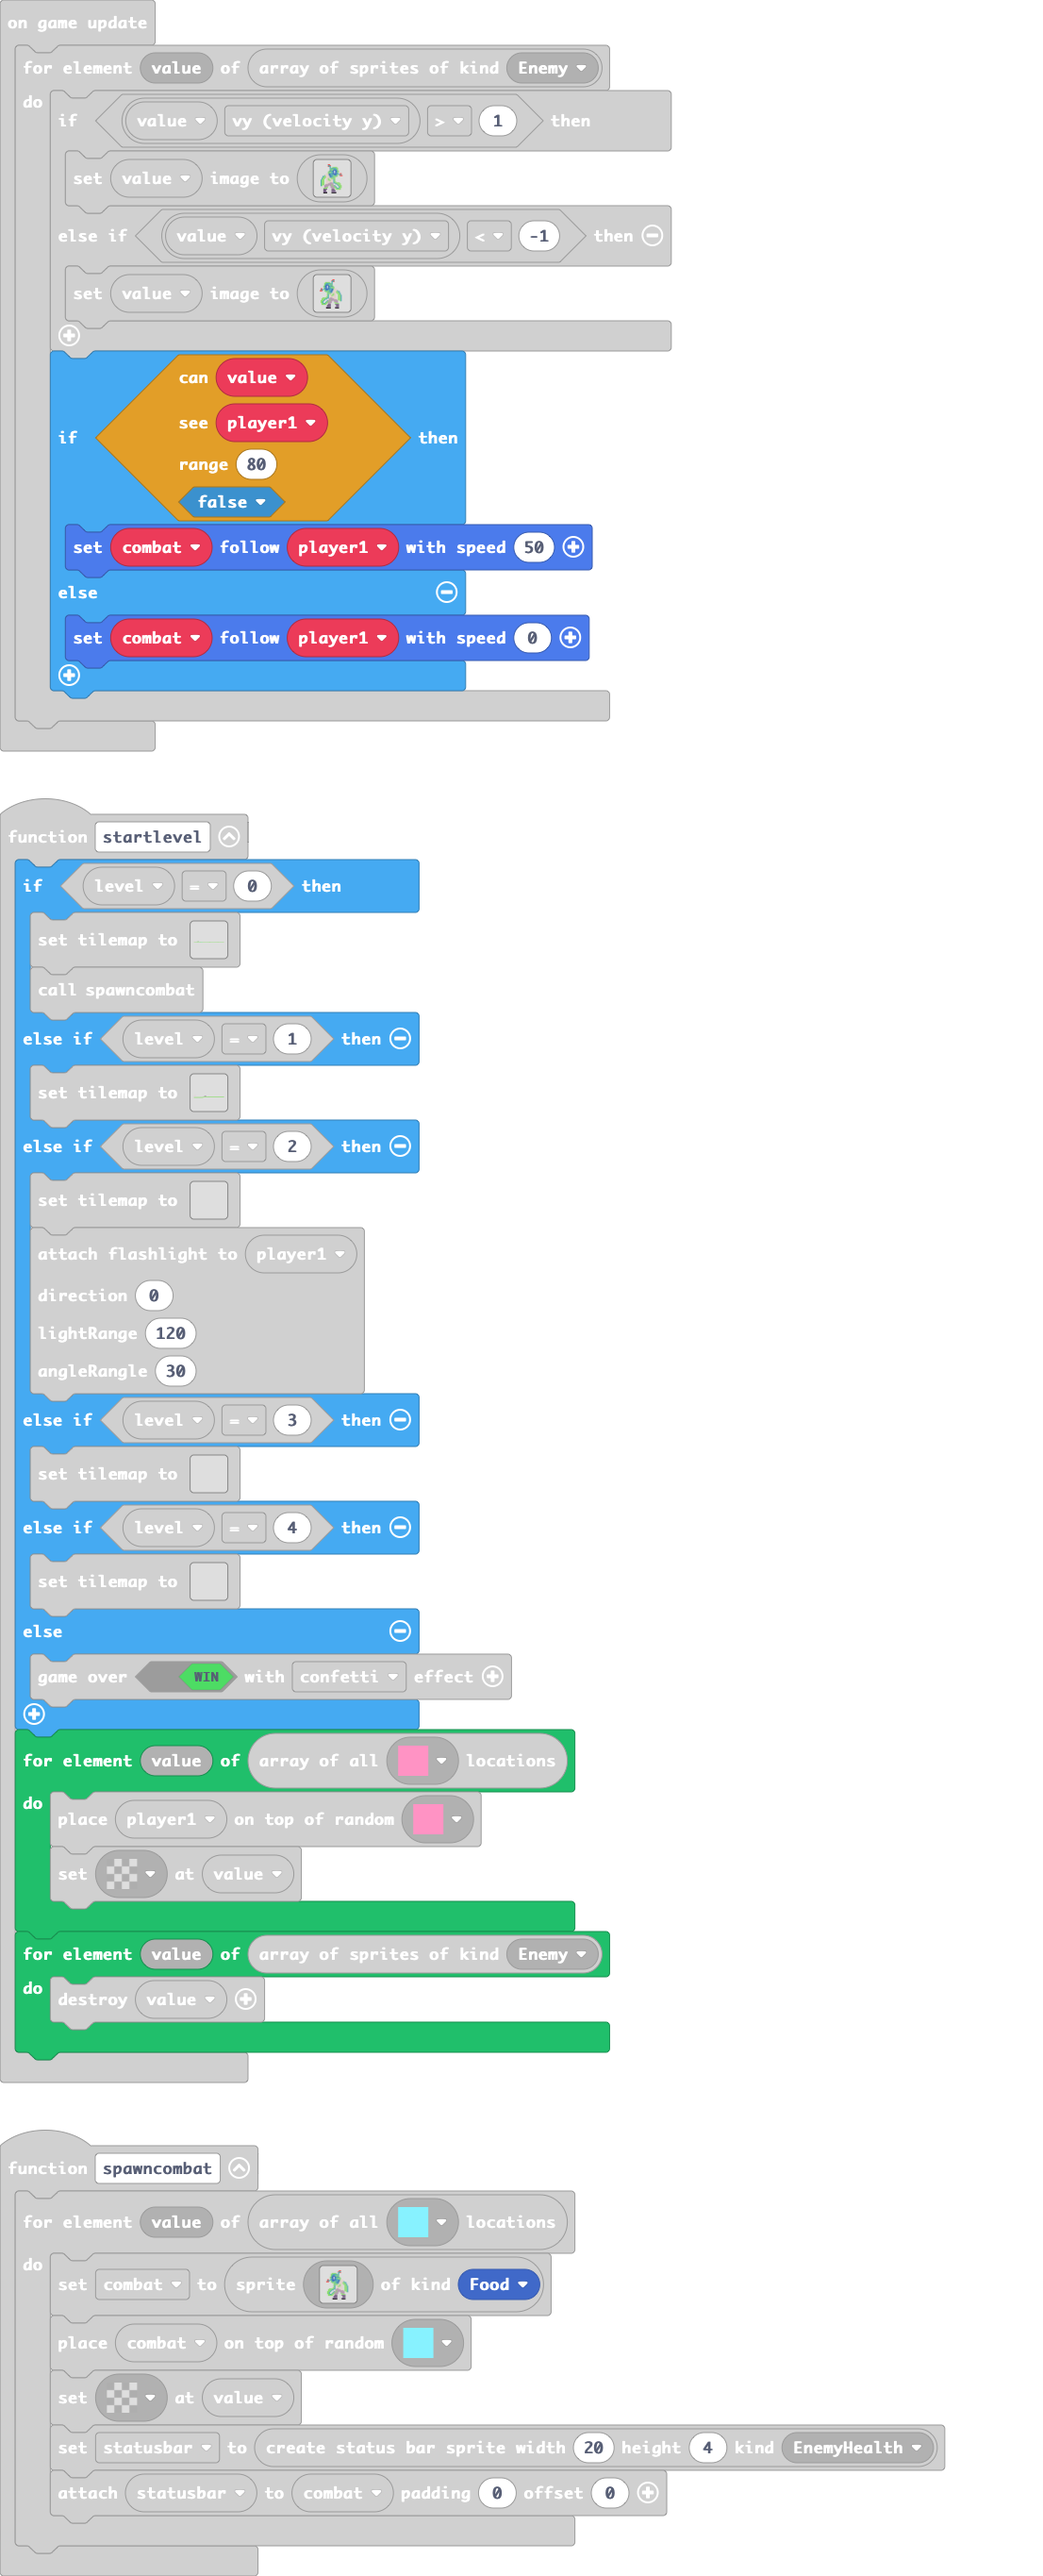
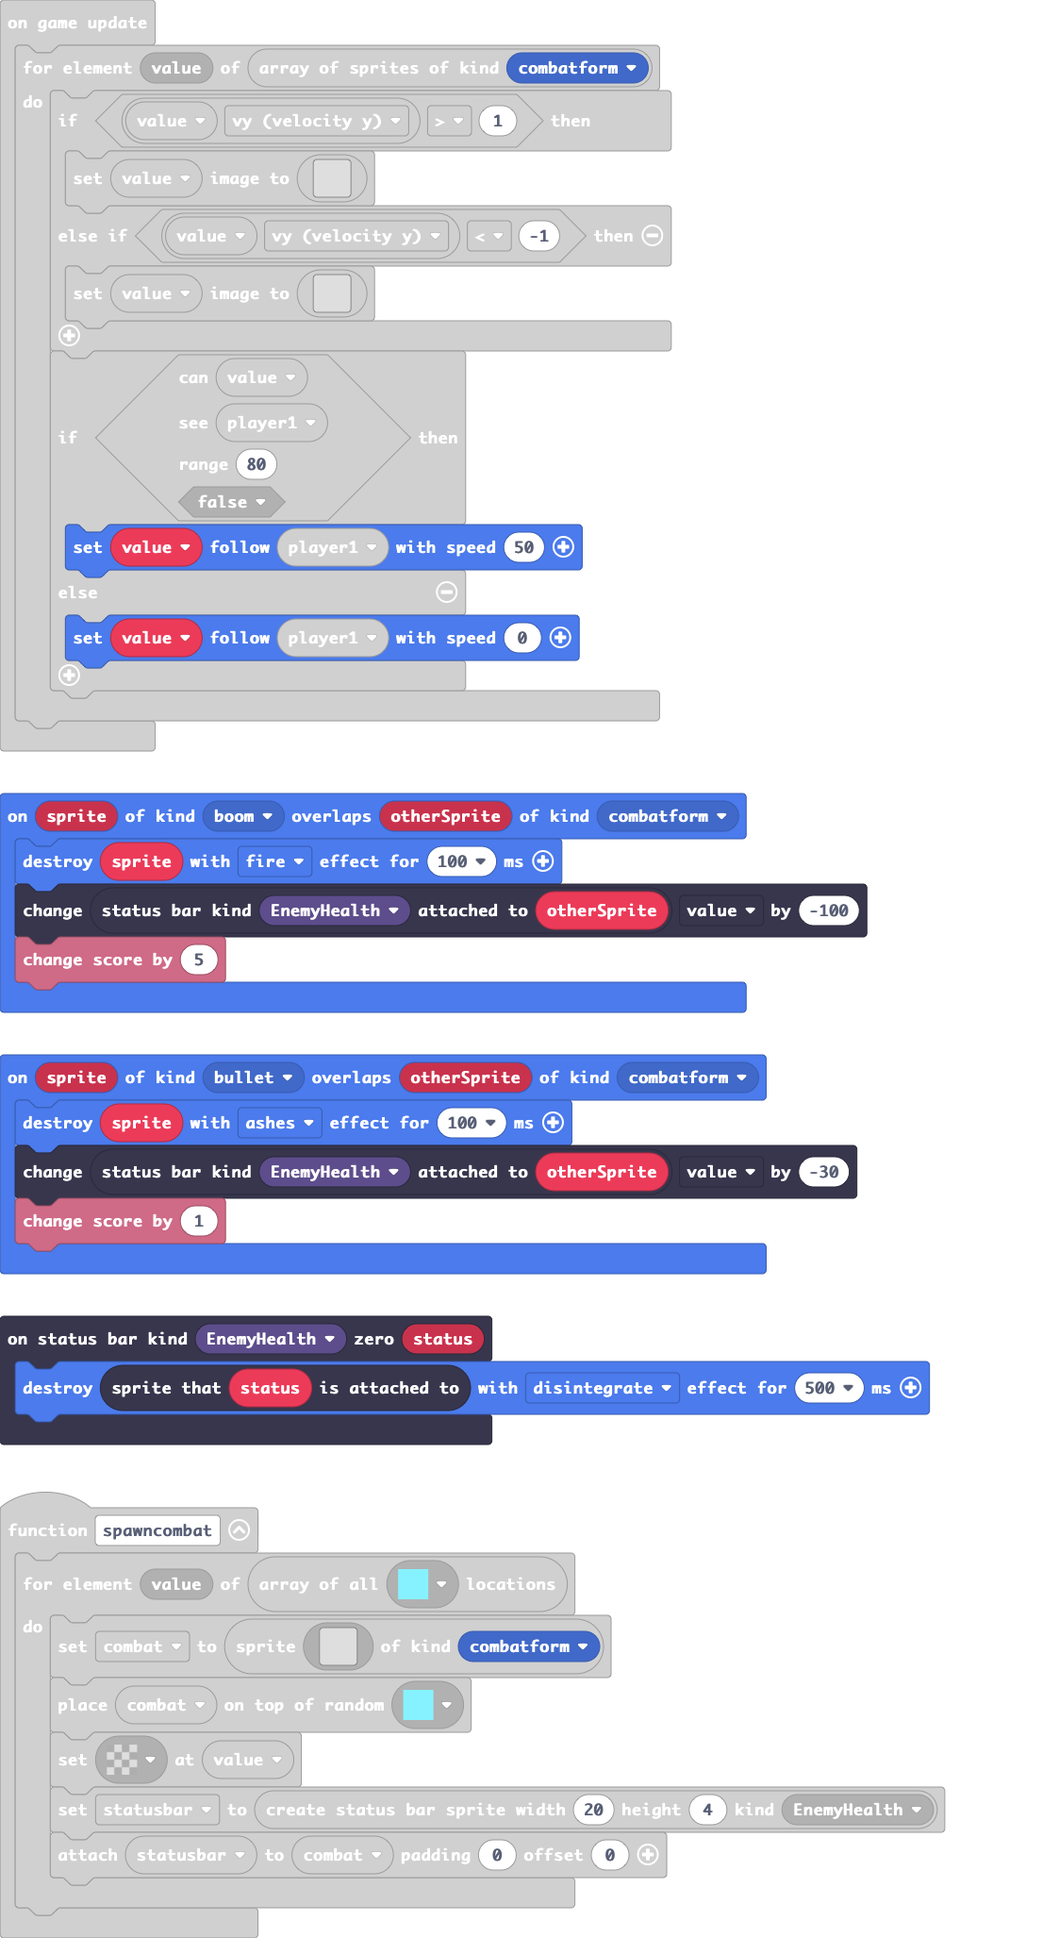
Update main.blocks, main.ts

diff --git a/main.ts b/main.ts
@@ -13,6 +13,7 @@ namespace SpriteKind {
     export const bullet = SpriteKind.create()
     export const boom = SpriteKind.create()
     export const cannon = SpriteKind.create()
+    export const combatform = SpriteKind.create()
 }
 namespace StatusBarKind {
     export const shield = StatusBarKind.create()
@@ -2136,7 +2137,7 @@ function spawncombat () {
             ........cccc......ccc....
             .......ccccc.....cccc....
             .......fffff.....ffff....
-            `, SpriteKind.Food)
+            `, SpriteKind.combatform)
         tiles.placeOnRandomTile(combat, assets.tile`myTile4`)
         tiles.setTileAt(value, assets.tile`transparency16`)
         statusbar = statusbars.create(20, 4, StatusBarKind.EnemyHealth)
@@ -2168,6 +2169,14 @@ statusbars.onStatusReached(StatusBarKind.Health, statusbars.StatusComparison.LTE
 function spawnbolt () {
 	
 }
+statusbars.onZero(StatusBarKind.EnemyHealth, function (status) {
+    status.spriteAttachedTo().destroy(effects.disintegrate, 500)
+})
+sprites.onOverlap(SpriteKind.bullet, SpriteKind.combatform, function (sprite, otherSprite) {
+    sprite.destroy(effects.ashes, 100)
+    statusbars.getStatusBarAttachedTo(StatusBarKind.EnemyHealth, otherSprite).value += -30
+    info.changeScoreBy(1)
+})
 statusbars.onZero(StatusBarKind.Health, function (status) {
     story.startCutscene(function () {
         tiles.destroySpritesOfKind(SpriteKind.Player)
@@ -3313,6 +3322,11 @@ statusbars.onZero(StatusBarKind.Energy, function (status) {
     ammo = 100
     ammobar.value = 100
 })
+sprites.onOverlap(SpriteKind.boom, SpriteKind.combatform, function (sprite, otherSprite) {
+    sprite.destroy(effects.fire, 100)
+    statusbars.getStatusBarAttachedTo(StatusBarKind.EnemyHealth, otherSprite).value += -100
+    info.changeScoreBy(5)
+})
 function spawndrone () {
 	
 }
@@ -3588,7 +3602,7 @@ game.onUpdate(function () {
     player1.ay = 500
 })
 game.onUpdate(function () {
-    for (let value of sprites.allOfKind(SpriteKind.Enemy)) {
+    for (let value of sprites.allOfKind(SpriteKind.combatform)) {
         if (value.vy > 1) {
             value.setImage(img`
                 .........................
@@ -3668,9 +3682,9 @@ game.onUpdate(function () {
         80,
         false
         )) {
-            combat.follow(player1, 50)
+            value.follow(player1, 50)
         } else {
-            combat.follow(player1, 0)
+            value.follow(player1, 0)
         }
     }
 })
